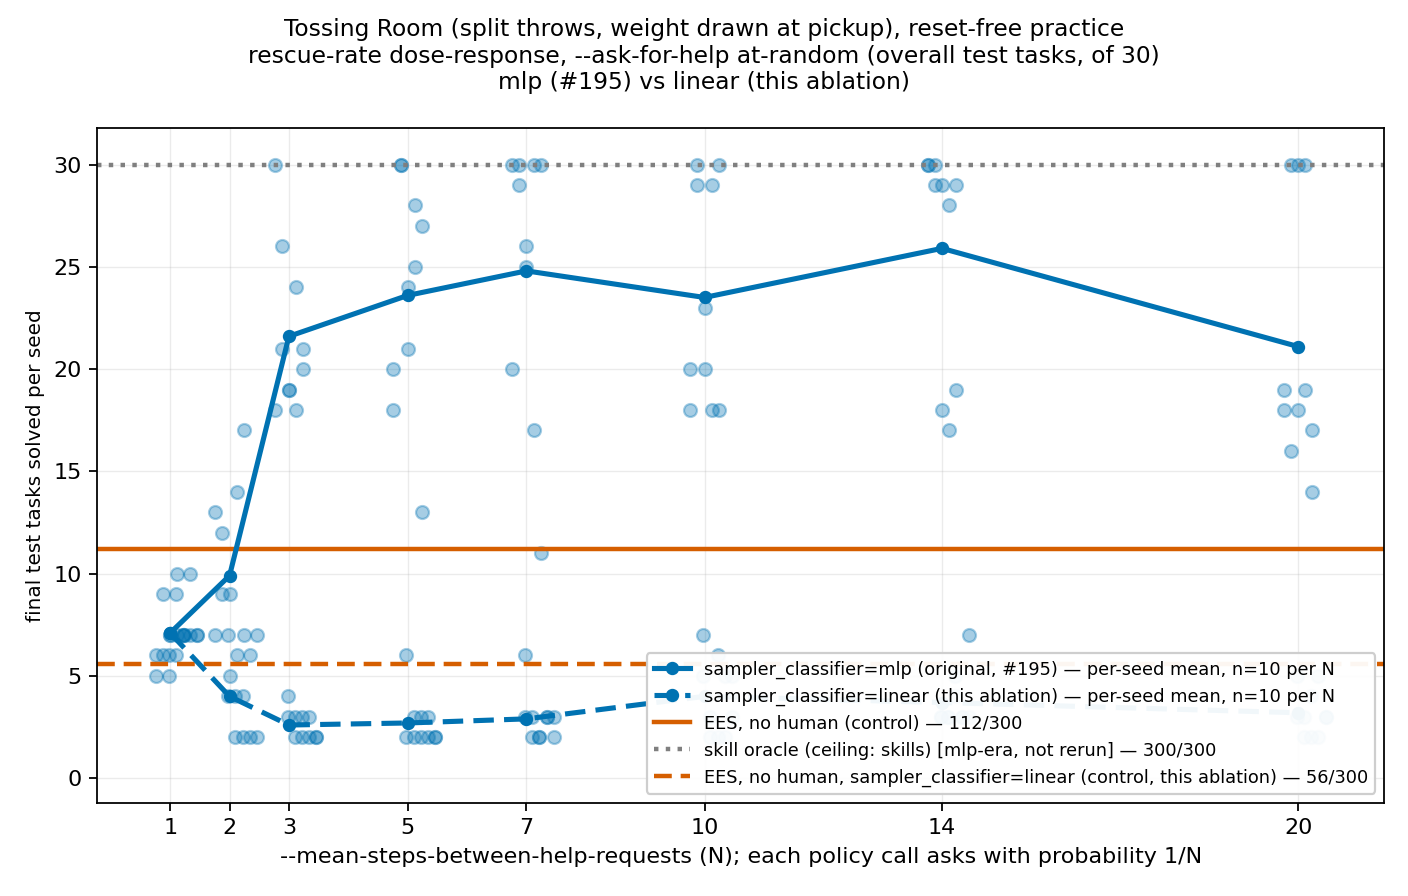
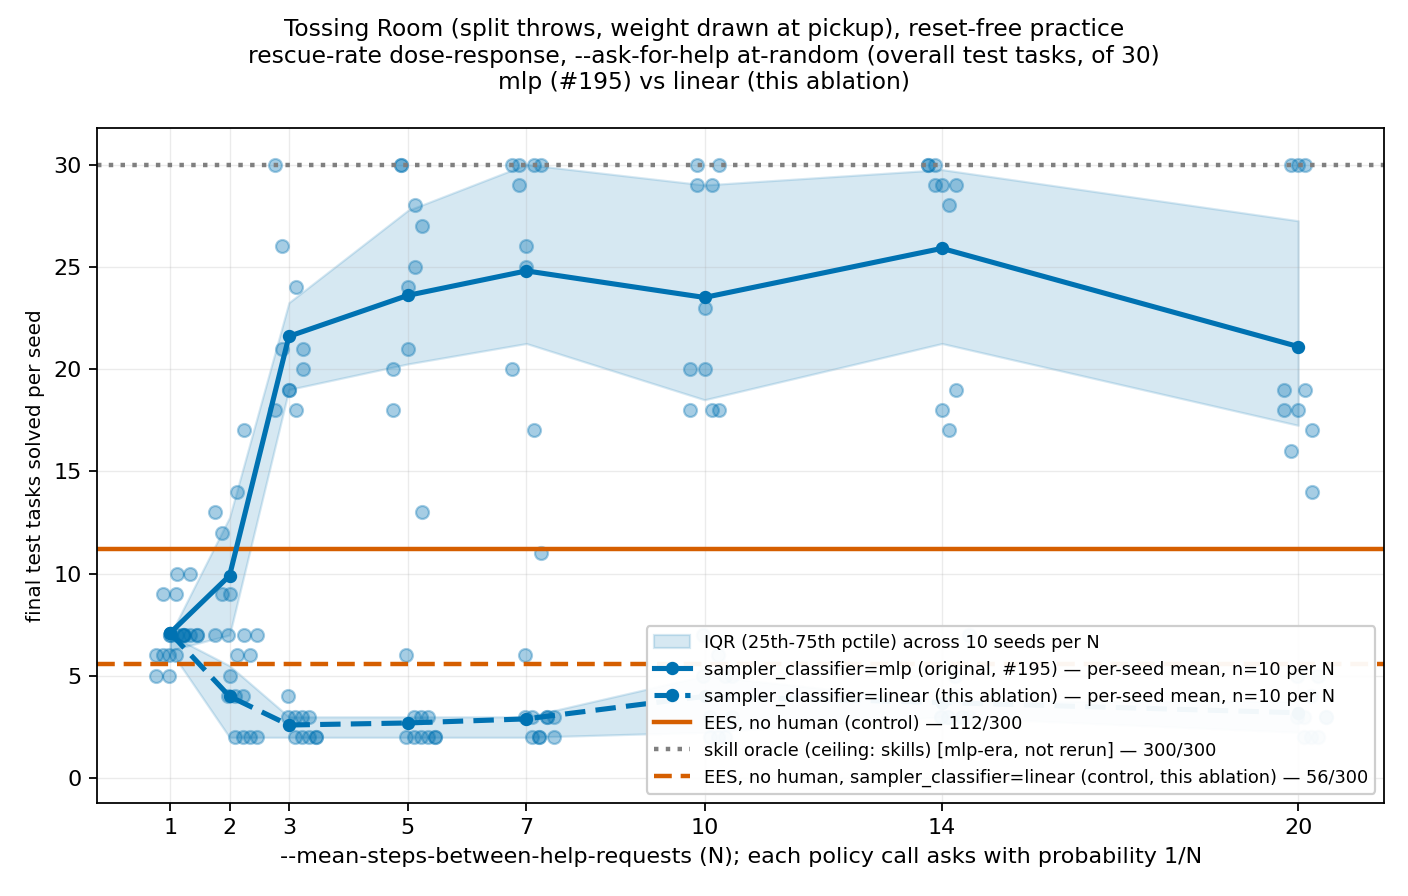
Fold the IQR-band rebase onto human_ladder_curves.py, regenerate the ablation figure
The base branch (agent-a37/human-ladder-6arm) gained an IQR band + a per-N seed-
trajectory figure on render_rate_sweep after this branch forked, touching the exact
function this PR extended with the second-classifier overlay. Rebase resolved the
conflict by keeping both: the second series gets an IQR band too, with only the
first series' band labelled in the legend (same colour/alpha, so a second row would
only restate the first). render_rate_sweep_trajectories is single-series only and is
now skipped (like render_family) whenever a second series is requested, rather than
silently re-rendering #195's own already-committed figure unchanged. Regenerated the
committed dose-response PNG from the same 90 already-run seeds -- no experiment
re-run needed, since nothing in the rebased-in change touches hitl_pmp.cli or the
raw stats.json data.

Claude-Session: https://claude.ai/code/session_01YX4kv9fLBKzvmm3w25BvHF

Changed region(s): [[0.125, 0.1875, 0.9375, 0.8438], [0.4375, 0.6875, 0.7812, 0.75]]

diff --git a/analysis/practice_makes_perfect/human_ladder_curves.py b/analysis/practice_makes_perfect/human_ladder_curves.py
@@ -1066,16 +1066,20 @@ class HumanLadderCurves:
             rate_sweep_2=rate_sweep_2,
             no_human_2=no_human_2,
         )
-        HumanLadderCurves.render_rate_sweep_trajectories(
-            arms=arms,
-            rate_sweep=rate_sweep,
-            output=args.output_dir / "human-ladder-rate-sweep-trajectories.png",
-            title=(
-                f"{domain}\n"
-                f"rescue-rate sweep, per-N individual seed trajectories "
-                f"(overall test tasks, of {_NUM_TEST_TASKS})"
-            ),
-        )
+        # Single-series only (see its own docstring) -- skipped for the same reason
+        # render_family is above: it has no defined meaning for two classifiers at once,
+        # and would otherwise just re-render #195's own already-committed figure unchanged.
+        if rate_sweep_2 is None:
+            HumanLadderCurves.render_rate_sweep_trajectories(
+                arms=arms,
+                rate_sweep=rate_sweep,
+                output=args.output_dir / "human-ladder-rate-sweep-trajectories.png",
+                title=(
+                    f"{domain}\n"
+                    f"rescue-rate sweep, per-N individual seed trajectories "
+                    f"(overall test tasks, of {_NUM_TEST_TASKS})"
+                ),
+            )
 
 
 if __name__ == "__main__":
